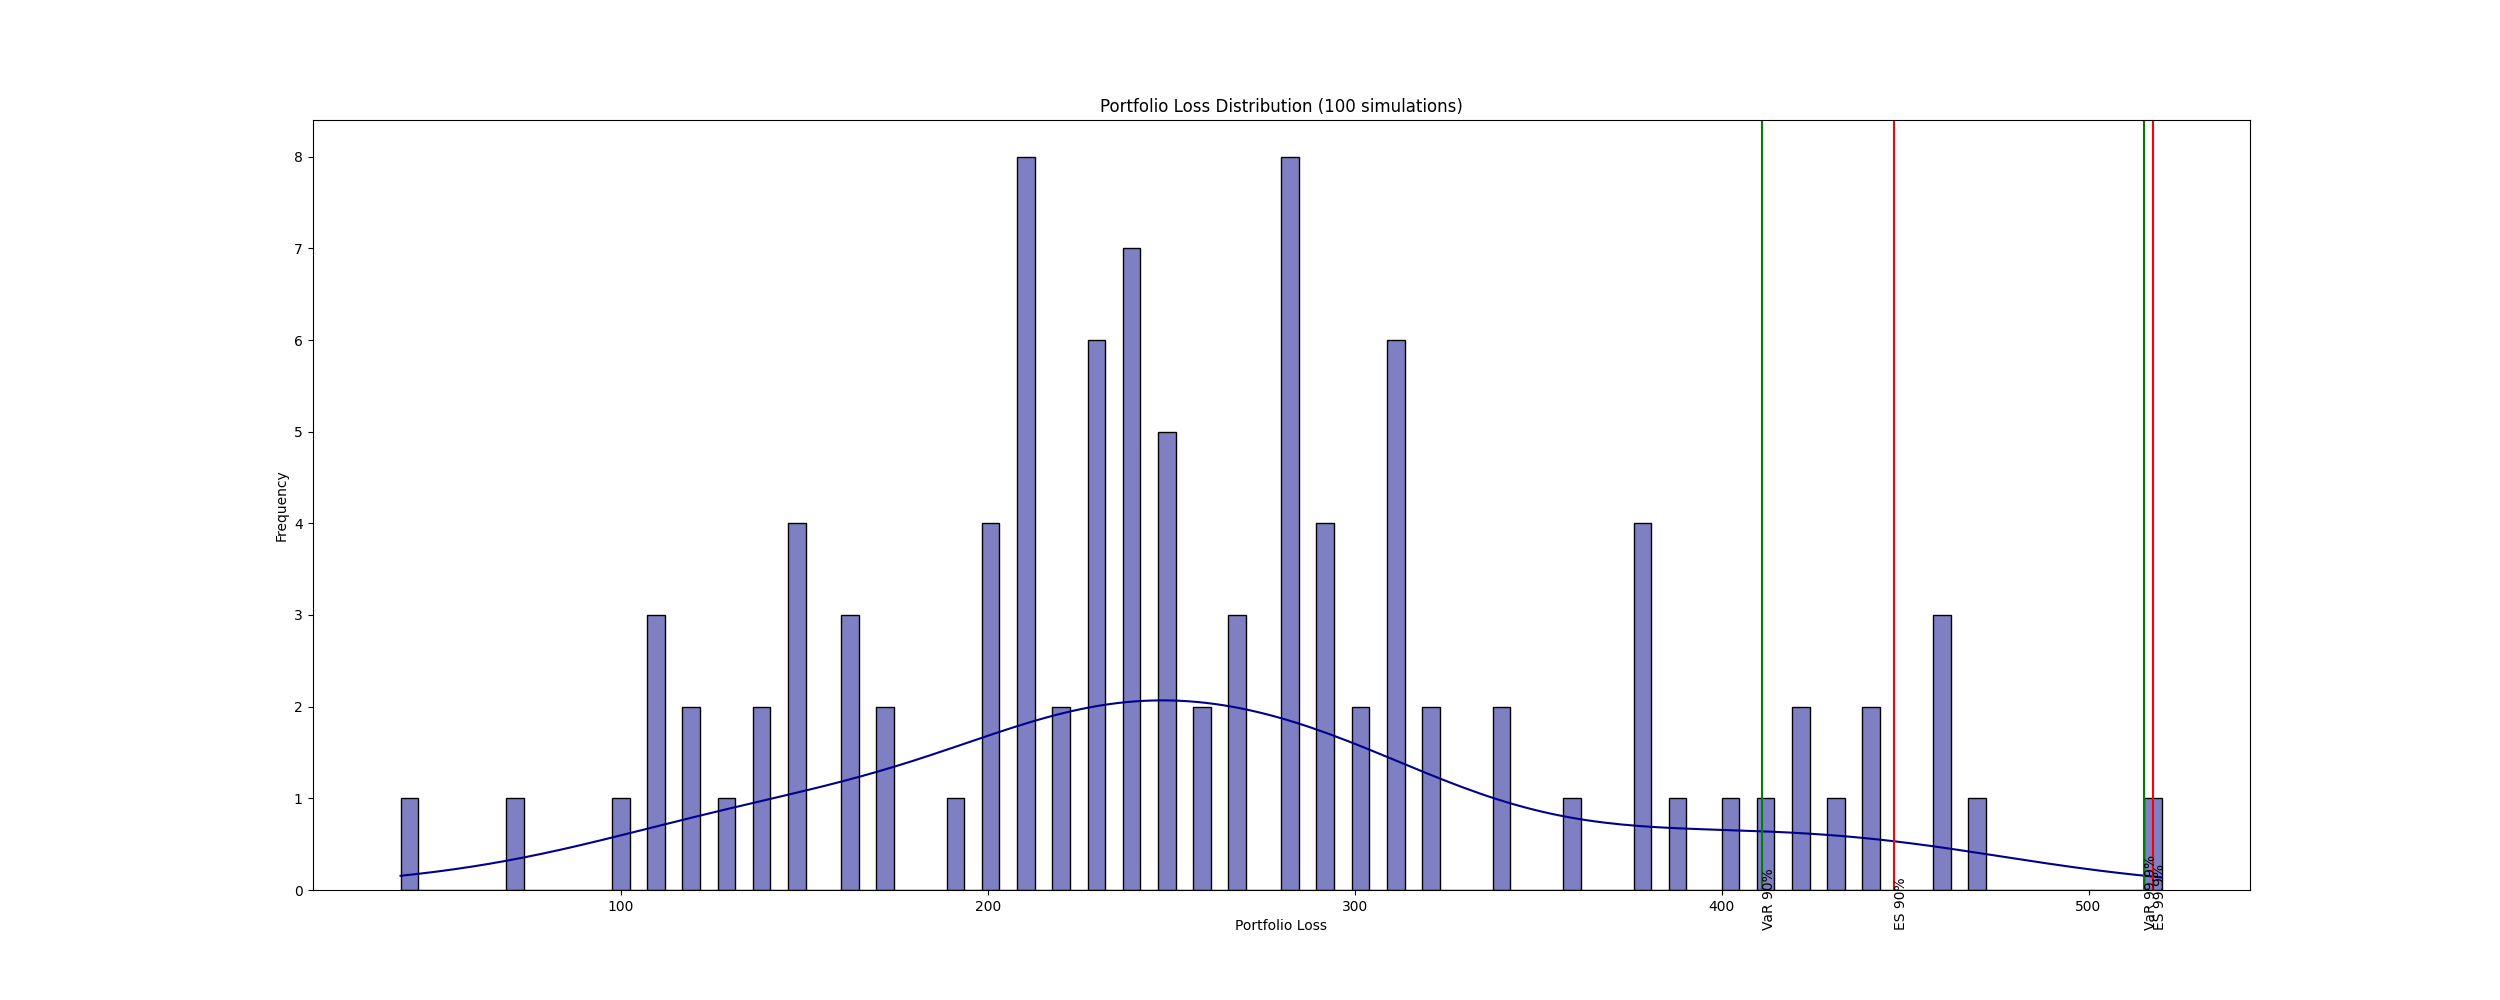
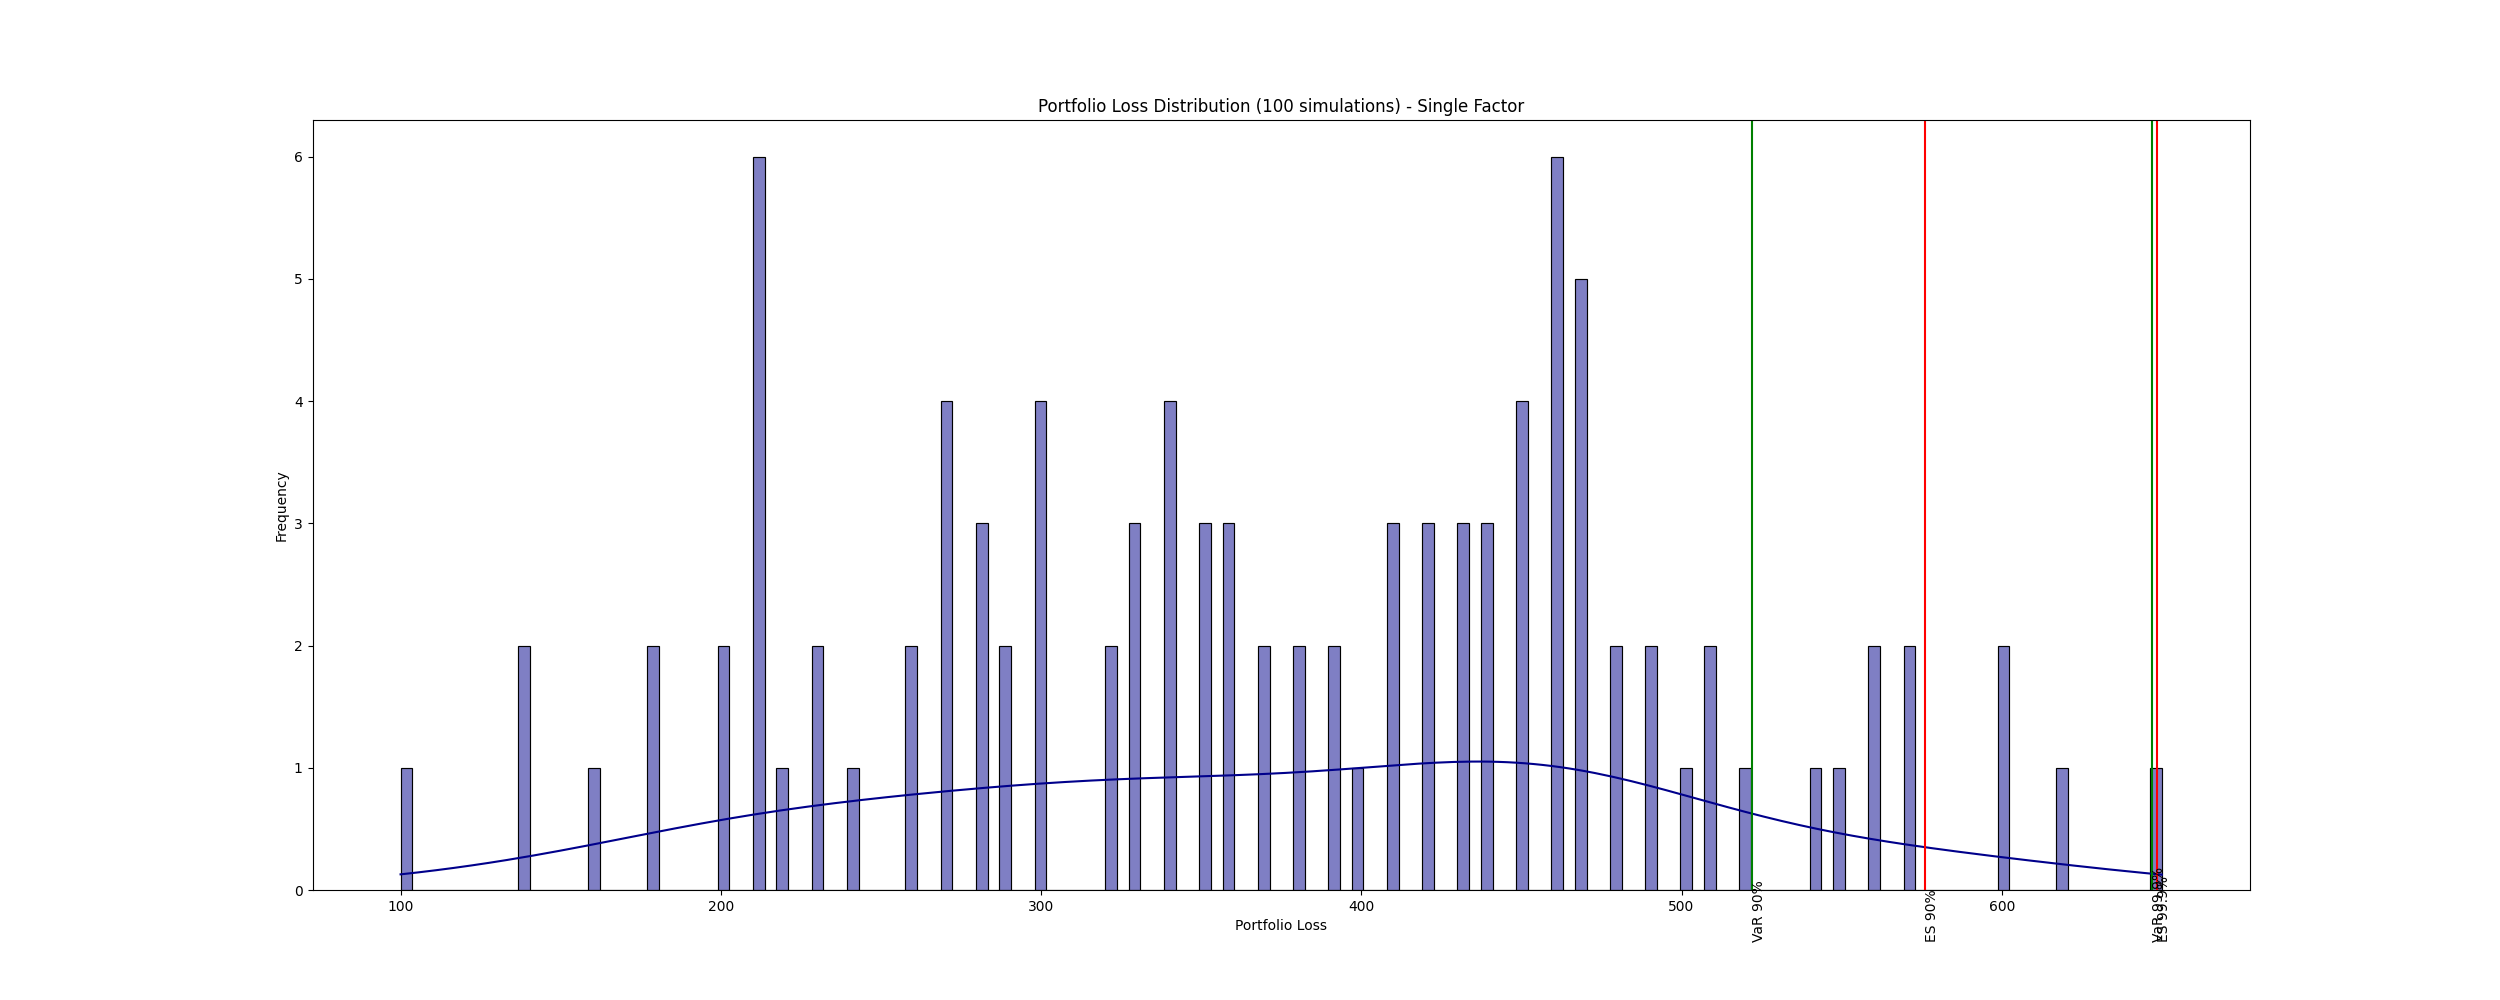
Added labels to plots

Changed region(s): [[0.156, 0.155, 0.8736, 0.93], [0.4056, 0.093, 0.5928, 0.124]]

diff --git a/code/single_factor_simulation.py b/code/single_factor_simulation.py
@@ -24,7 +24,7 @@ df = pd.read_csv('export/single_factor_sensitivities.csv', index_col=0)
 # Monte Carlo simulation
 PORTFOLIO_LOSS = list()
 Z = normal(loc=0.0, scale=1.0)
-simulations = 100
+simulations = 50_000
 
 for i in range(simulations):
 
@@ -56,7 +56,7 @@ for i in range(simulations):
 
     PORTFOLIO_LOSS.append(df['Loss'].sum())
 
-print(PORTFOLIO_LOSS)
+# print(PORTFOLIO_LOSS)
 
 # ==============================================================================================================================================
 
@@ -93,7 +93,7 @@ plt.axvline(ES_999, color='red')
 plt.text(ES_999, -0.4, 'ES 99.9%', rotation=90)
 plt.xlabel('Portfolio Loss')
 plt.ylabel('Frequency')
-plt.title('Portfolio Loss Distribution (50,000 simulations)')
+plt.title('Portfolio Loss Distribution (50,000 simulations) - Single Factor')
 plt.savefig(os.path.join(HOME, 'export',
             'portfolio_loss_distribution_50000.png'))
 plt.show()
